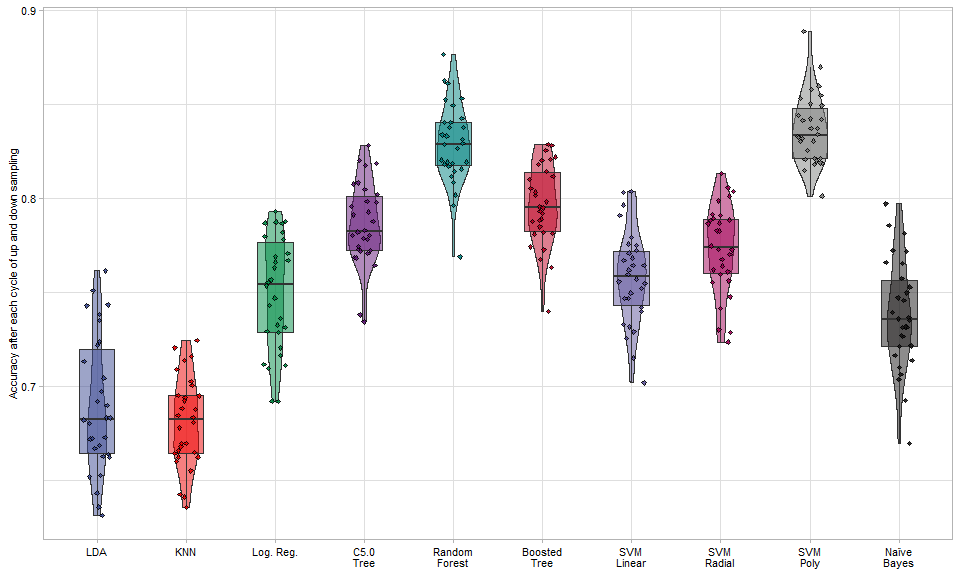
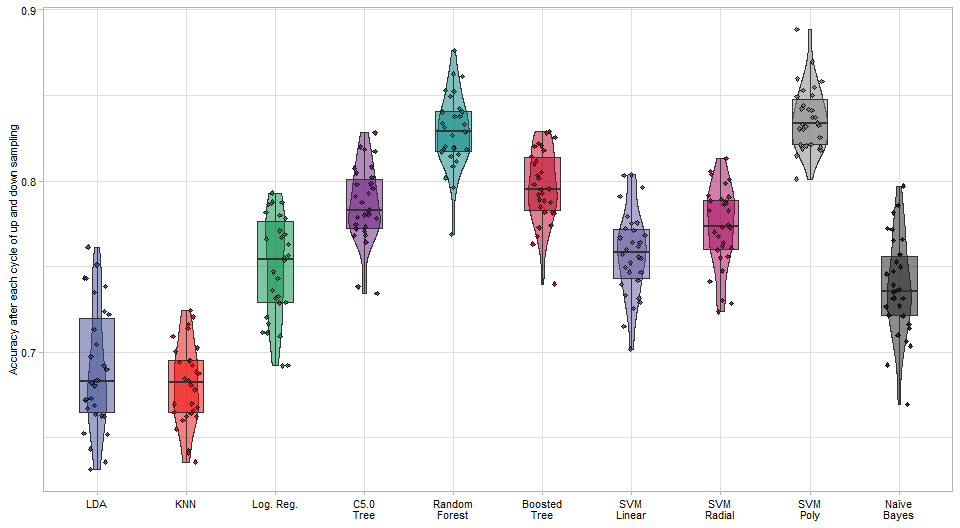
variable importance

diff --git a/A-Geometric-Morphometric-approach-to-lithic-backed-flake-categories.md b/A-Geometric-Morphometric-approach-to-lithic-backed-flake-categories.md
@@ -929,10 +929,23 @@ The PCA results show that the 25 first principal components account for
 95% of the variance in the dataset, with PC1 accounting for 21.39% of
 variance and PC25 accounting for 0.36% of variance. This represents a
 substantial reduction in dimensionality from the original number of
-variables (1,524) and is lower than the sample size (139).
+variables (1,524) and is lower than the sample size (139).  
+The following presents the accuracy values for each model after their
+respective 30 cycles of random up- and down-sampling. Supported vector
+machines with a polynomial kernel had the highest average value for
+general accuracy (0.837), closely followed by the random forest model
+(0.829). The K-nearest neighbor model had the lowest average value for
+accuracy (0.681), followed by LDA model (0.690). Supported vector
+machines with a polynomial kernel had the lowest standard deviation in
+accuracy values (0.018). This indicates that, in addition to being the
+most precise model on average, SVM with a polynomial kernel is also the
+most consistent model, being less affected by random up- and
+down-sampling. The minimum accuracy value of SVM with a polynomial
+kernel is 0.801, indicating a high accuracy, even when up- and
+down-sampling result in similar objects.
 
 ``` r
-# Set the models factos
+# Set the models factors
 All_Results$Model <- factor(All_Results$Model,
                                 levels = c(
                                   "LDA", "KNN", "Log. Reg.",
@@ -966,6 +979,105 @@ All_Results %>%
 ```
 
 ![](A-Geometric-Morphometric-approach-to-lithic-backed-flake-categories_files/figure-markdown_github/Results%20from%20up%20and%20down%20sampling-1.png)
+
+The following table presents performance metrics of the SVM with a
+polynomial kernel for the classification of the three products. The
+prevalence/no information ratio was kept constant at 0.33 for all three
+categories as a result of random up- and down-sampling to obtain
+balanced datasets. In general, the three products had high values for
+performance metrics, with Pseudo-Levallois points standing out in this
+regard. Following pseudo-Levallois points, core edge flakes had the
+second-best general values, with a sensitivity close to 0.8. Core edge
+flakes with a limited back had the lowest values for performance
+metrics.
+
+``` r
+# Performance metrics of SVM with polynomial kernel
+confusionMatrix(Conf_SVM_Poly$pred, Conf_SVM_Poly$obs)
+```
+
+    ## Confusion Matrix and Statistics
+    ## 
+    ##           Reference
+    ## Prediction    ED  EDlb  p_Lp
+    ##       ED   53689 13937   144
+    ##       EDlb 14877 51943  4107
+    ##       p_Lp   434  3120 64749
+    ## 
+    ## Overall Statistics
+    ##                                           
+    ##                Accuracy : 0.8231          
+    ##                  95% CI : (0.8214, 0.8247)
+    ##     No Information Rate : 0.3333          
+    ##     P-Value [Acc > NIR] : < 2.2e-16       
+    ##                                           
+    ##                   Kappa : 0.7346          
+    ##                                           
+    ##  Mcnemar's Test P-Value : < 2.2e-16       
+    ## 
+    ## Statistics by Class:
+    ## 
+    ##                      Class: ED Class: EDlb Class: p_Lp
+    ## Sensitivity             0.7781      0.7528      0.9384
+    ## Specificity             0.8980      0.8624      0.9742
+    ## Pos Pred Value          0.7922      0.7323      0.9480
+    ## Neg Pred Value          0.8900      0.8746      0.9694
+    ## Prevalence              0.3333      0.3333      0.3333
+    ## Detection Rate          0.2594      0.2509      0.3128
+    ## Detection Prevalence    0.3274      0.3426      0.3300
+    ## Balanced Accuracy       0.8380      0.8076      0.9563
+
+### 3.2 Variable importance
+
+``` r
+# Variable importance 
+ED_VarImp$Importance <- rowMeans(ED_VarImp[,2:31])
+ED_VarImp$PC <- colnames(PCA_Coord)[1:25]
+
+EDlb_VarImp$Importance <- rowMeans(EDlb_VarImp[,2:31])
+EDlb_VarImp$PC <- colnames(PCA_Coord)[1:25]
+
+ggpubr::ggarrange(
+(ED_VarImp %>% select(Importance, PC) %>% 
+  top_n(15, Importance) %>% 
+  ggplot(aes(Importance, reorder(PC, Importance), fill = Importance)) +
+  geom_bar(stat= "identity", position = "dodge") +
+  geom_text(aes(label = round(Importance, 2)), 
+            position = position_stack(vjust = 0.5), size = 2) +
+  scale_fill_gradient(low = "red", high = "blue") +
+  guides(fill = "none") +
+  ylab(NULL) +
+  theme_light() +
+  labs(title = "PC importance for Core Edge Flakes and pseudo-Levallois\npoints") +
+  theme(
+    axis.text.y = element_text(color = "black", size = 7),
+    axis.text.x = element_text(color = "black", size = 7),
+    axis.title.x = element_text(color = "black", size = 7),
+    plot.title = element_text(color = "black", size = 7))
+),
+
+(EDlb_VarImp %>% select(Importance, PC) %>% 
+  top_n(15, Importance) %>% 
+  ggplot(aes(Importance, reorder(PC, Importance), fill = Importance)) +
+  geom_bar(stat= "identity", position = "dodge") +
+  geom_text(aes(label = round(Importance, 2)), 
+            position = position_stack(vjust = 0.5), size = 2) +
+  scale_fill_gradient(low = "red", high = "blue") +
+  guides(fill = "none") +
+  ylab(NULL) +
+  theme_light() +
+  labs(title = "PC importance for Core Edge Flakes With a Limited\nBack") +
+  theme(
+    axis.text.y = element_text(color = "black", size = 7),
+    axis.text.x = element_text(color = "black", size = 7),
+    axis.title.x = element_text(color = "black", size = 7),
+    plot.title = element_text(color = "black", size = 7))
+),
+ncol = 2
+)
+```
+
+![](A-Geometric-Morphometric-approach-to-lithic-backed-flake-categories_files/figure-markdown_github/unnamed-chunk-7-1.png)
 
 ## 7. References
 
